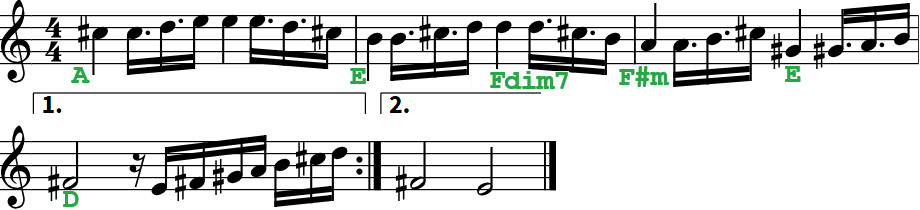
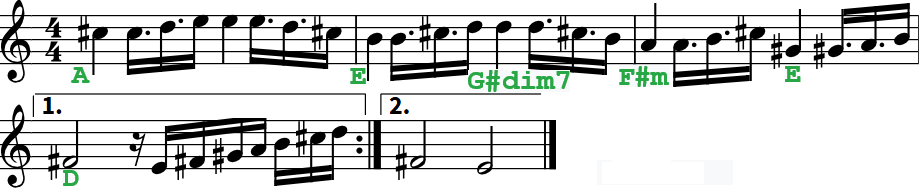
aqsaqal104

Changed region(s): [[0.0, 0.0, 1.0, 1.0], [0.0609, 0.9524, 0.0913, 1.0]]

diff --git a/songs/07-aqsaqal.html b/songs/07-aqsaqal.html
@@ -9,8 +9,8 @@
             <div class="content">
 <song>
     <intro hash="bf4m94cqpogmxhu"><img imagetype="scores" data-src="inkaraim.intro.png" data-src-transpose-minus-5="inkaraim.intro.A.png">
-D | D | A | Bbdim7 | Bm | A | G | G 
-D | D | A | Bbdim7 | Bm | A | G | G 
+D | D | A | C#dim7 | Bm | A | G | G 
+D | D | A | C#dim7 | Bm | A | G | G 
     </intro>
     <verse><bblue>не играть</bblue>
 D                           Em Em/D# Em/D Em/D#
@@ -1259,7 +1259,7 @@ Em <bblue>cha-cha-cha</bblue>
             </div>
         </div>
 
-        <div class="accordion" artist="Аллегрова И." song="С Днем Рождения" key="E" transpose="-2" keyrender bank="1-3" hash="8ktywwmrnuo86xx" hashreference="p1o5i8u2y6t9r3e"></div>
+        <div class="accordion" artist="Аллегрова И." song="С Днем Рождения" key="E" transpose="-2" keyrender bank="1-3" midi="2,37" hash="8ktywwmrnuo86xx" hashreference="p1o5i8u2y6t9r3e"></div>
 
         <div class="accordion" artist="АСтудио" song="Белая река" keycustom="Am" hash="r1t6y3u8i5o9p2a">
             <button class="toggle-button"><span class=voice>Organ | Strings</span>
@@ -1863,7 +1863,7 @@ Bm</bridge>
 
         </div>
 
-        <div class="accordion" artist="Ваенга Е." song="Желаю" voice="FS Brass" key="Cm" hash="ylzfi9uegwotjuc">
+        <div class="accordion" artist="Ваенга Е." song="Желаю" voice="FS Brass" key="Cm" midi="2,38" hash="ylzfi9uegwotjuc">
             <button class="toggle-button">
                 <chord>https://amdm.ru/akkordi/vaenga_elena/111773/zhelay_ost_gorod_soblaznov/</chord>
                 <yt>https://www.youtube.com/watch?v=x7nUdEMuL8c</yt>
@@ -1872,7 +1872,7 @@ Bm</bridge>
 <song>
 <intro>Fm Cm G Cm C7</intro>
 Fm Cm G Cm
-<verse hash="vz14b32zfcno73i">
+<verse hash="vz14b32zfcno73i"><span class="square-green-button">2</span>
 Cm
 Солнце, ярко светит
 Cm
@@ -1912,13 +1912,13 @@ Fm         G7
 Cm   С7
 Вас радовали, оп
 </chorus>
-<instr hash="218u4xim157p6qi">
+<instr hash="218u4xim157p6qi"><span class="square-green-button">1</span>
 Fm G7
 Cm G#
 Fm G7
 Cm
 </instr>
-<verse>
+<verse><span class="square-green-button">2</span>
 Cm
 Я желаю мира
 Cm
@@ -3750,16 +3750,17 @@ Dm
             </div>
         </div>
 
-        <div class="accordion" artist="Тулегенова Б." song="Весенний вальс" key="B" transpose="6" keyrender voice="Piano" hash="vmdfwhar8o8jilb">
+        <div class="accordion" artist="Тулегенова Б." song="Весенний вальс" key="B" transpose="6" keyrender voice="Piano" midi="2,36"  hash="vmdfwhar8o8jilb">
             <button class="toggle-button">
                 <chord></chord>
                 <yt>https://www.youtube.com/watch?v=yNIEHEcbwrU</yt>
             </button>
             <div class="content">            
 <song>
-<intro hash="u7r5mhys541e91y"><bblue>трель от до </bblue>B Gm6 F#m F (E6) 
+<intro hash="u7r5mhys541e91y"><span class="square-green-button">1</span>
+<bblue>трель от до </bblue>B Gm6 F#m F (E6) 
 F# <bblue>арпеджированный с 6 ступенью на 3-4 октавы</bblue></intro>
-<verse>
+<verse><span class="square-green-button">2</span>
 B
 Когда в твои окна
 Весна постучится,
@@ -3782,7 +3783,7 @@ C#m7
  C#m       F#     B
 Степь золотую вокруг.
 </verse>
-<chorus hash="tp2oh0ysiusab1d">
+<chorus hash="tp2oh0ysiusab1d"><span class="square-green-button">2</span>
 `      C#m6 D#7 G#m
 Ты пришла,  весна,
     C#m  F# B  G#
@@ -3802,7 +3803,7 @@ C#m7
 И смелей меч-ты.
 </chorus>
 <instr hashreference="u7r5mhys541e91y"></instr>
-<verse>
+<verse><span class="square-green-button">2</span>
 B
 Проходит весна
 По аллеям зелёным,
@@ -3826,7 +3827,7 @@ B
 </verse>
 <chorus hashreference="tp2oh0ysiusab1d"></chorus>
 <instr><!--<bblue>Transpose +2</bblue>-->
-<span class="voice">FullStrings</span>
+<span class="square-green-button">1</span> <span class="square-green-button">2</span> <span class="square-green-button">3</span> <span class="voice">FullStrings</span>
 <img imagetype="scores" data-src="1.png" data-src-transpose-plus-6="tulegenova.vesenni.vals.solo.F.png">
 B            C#m7
 C#m7  F#7    B

diff --git a/songs/05-weekend.html b/songs/05-weekend.html
@@ -1463,7 +1463,7 @@ Am | Bm7
 <intro>
 E | Cdim7  | C#m | Amaj  B7
 E | Cdim7  | C#m | Amaj  B7</intro>
-<verse>
+<verse><span class="square-green-button">2</span>
 `       E    
 Стрелки крутятся всё быстрей,
       C#m7
@@ -1499,11 +1499,12 @@ G#7                   C#m
                  A
 И чумового настроения,
 B                       Esus4
-  И самых преданных друзей
+  И самых преданных друзей <bblue>начинать инструментал</bblue>
 </chorus>
-<instr>E | C#7  | C#m | Amaj  B7
-E | C#7  | C#m | Amaj  B7</instr>
-<verse>
+<instr><span class="square-green-button">1</span>
+E | Cdim7  | C#m | Amaj  B7
+E | Cdim7  | C#m | Amaj  B7</instr>
+<verse><span class="square-green-button">1</span>
 `       E    
 Телеграммы летят в окно,
       C#m7
@@ -1539,9 +1540,10 @@ A#7                   D#m
                  B
 И чумового настроения,
 C#                      F#sus4
-  И самых преданных друзей
+  И самых преданных друзей <bblue>начинать инструментал</bblue>
 </chorus>
-<coda>F# | Ddim7  | D#m | Bmaj  C#7
+<coda><span class="square-green-button">1</span>
+F# | Ddim7  | D#m | Bmaj  C#7
 F# | Ddim7  | D#m | Bmaj  C#7
 <bblue>продолжаем рефрен</bblue>
 F# | Ddim7  | D#m | Bmaj  C#7
